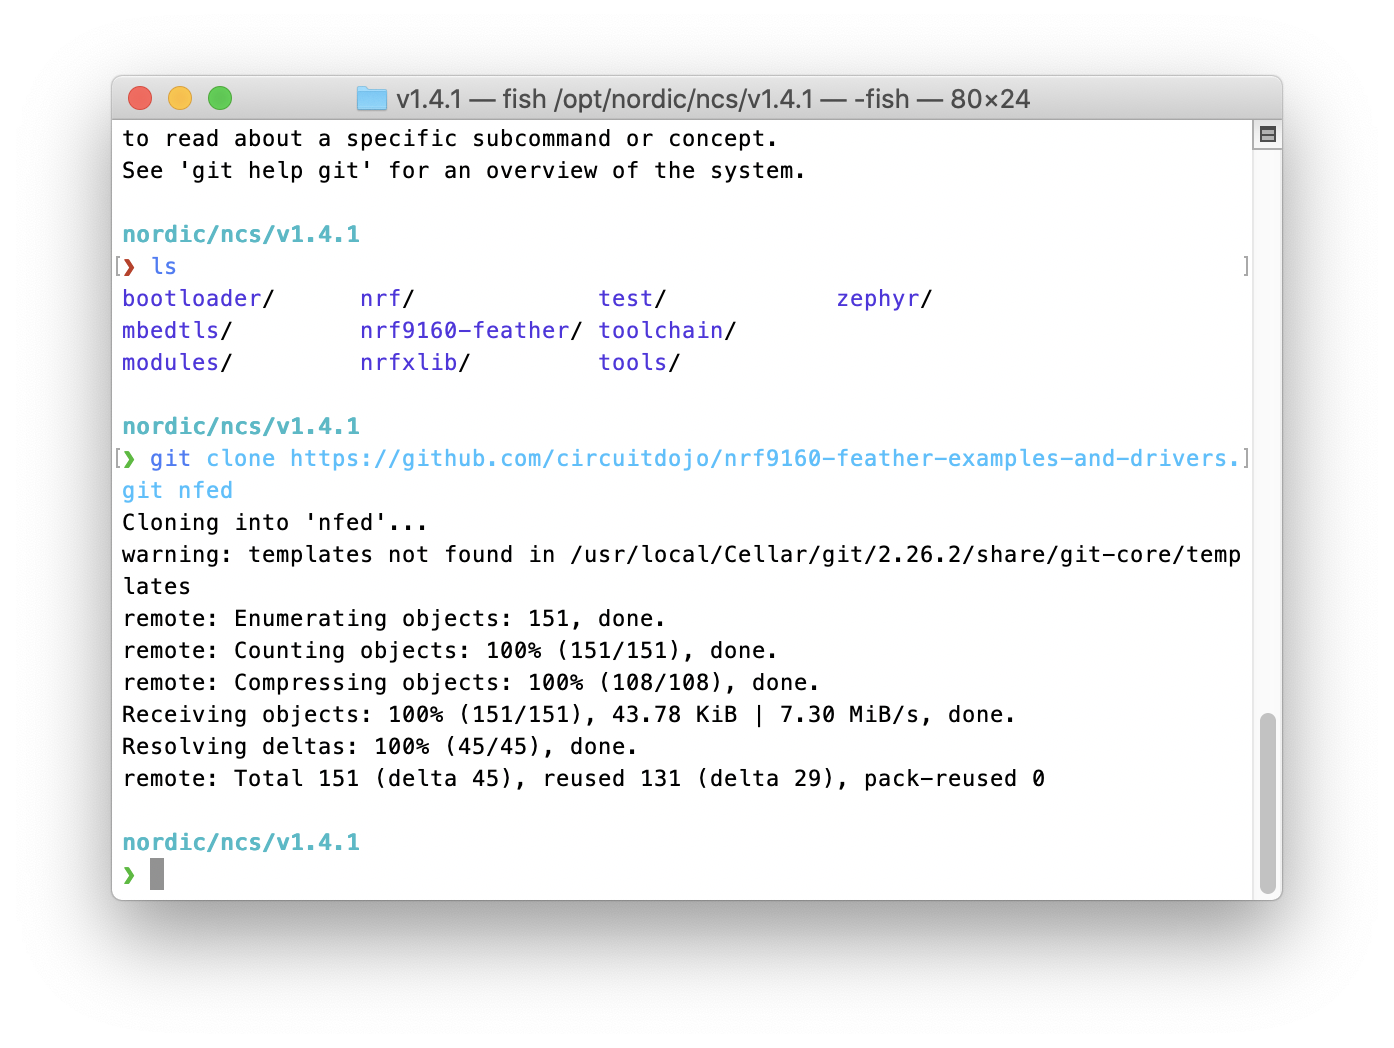
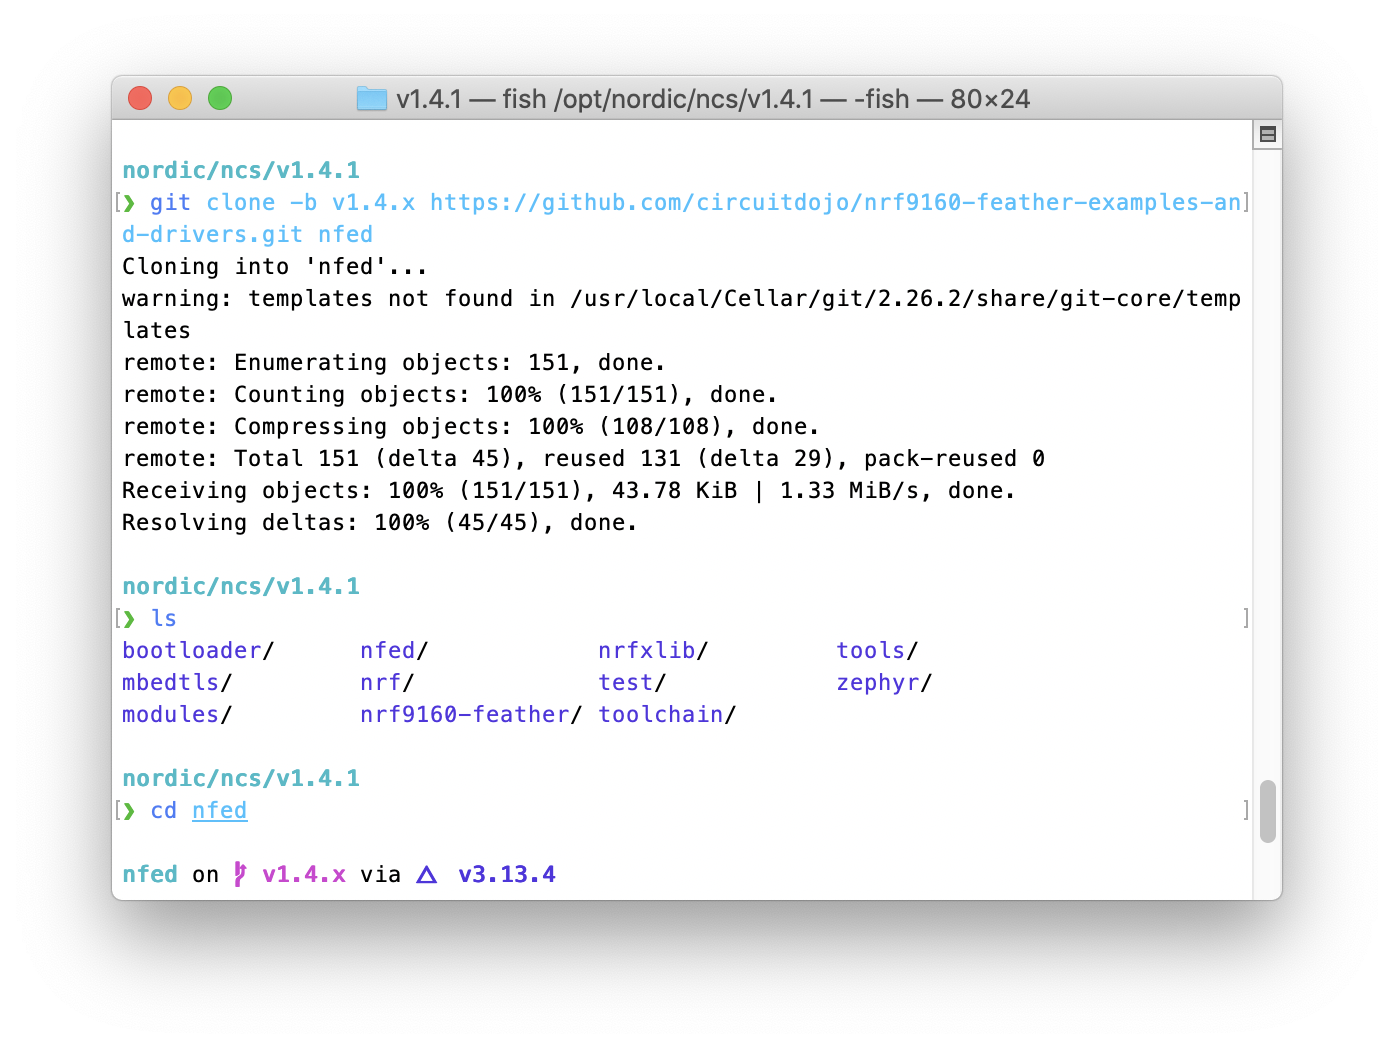
Adding a note about  migrating.

diff --git a/src/nrf9160-sdk-setup-mac.md b/src/nrf9160-sdk-setup-mac.md
@@ -74,6 +74,10 @@ Installing the latest SDK is a snap and only takes a few steps. Let's walk throu
 
 Now you can get to playing around with some of the nRF9160 Feather example code! Remember you'll always have to open a terminal using the Toolchain Manager to build code!
 
+## Migrating from previous instructions
+
+Follow the same steps as above. Except for **Step 9**.  Then copy your `nfed` directory from your old setup to the new SDK folder. It will be in `/opt/nordic/ncs/v1.4.1/`. You'll want to checkout the latest using `git pull && git checkout v1.4.1`. 
+
 ## Testing it
 
 You can quickly test if your SDK is set up correctly by checking out the [`blinky` example](nrf9160-blinky-sample.md).
